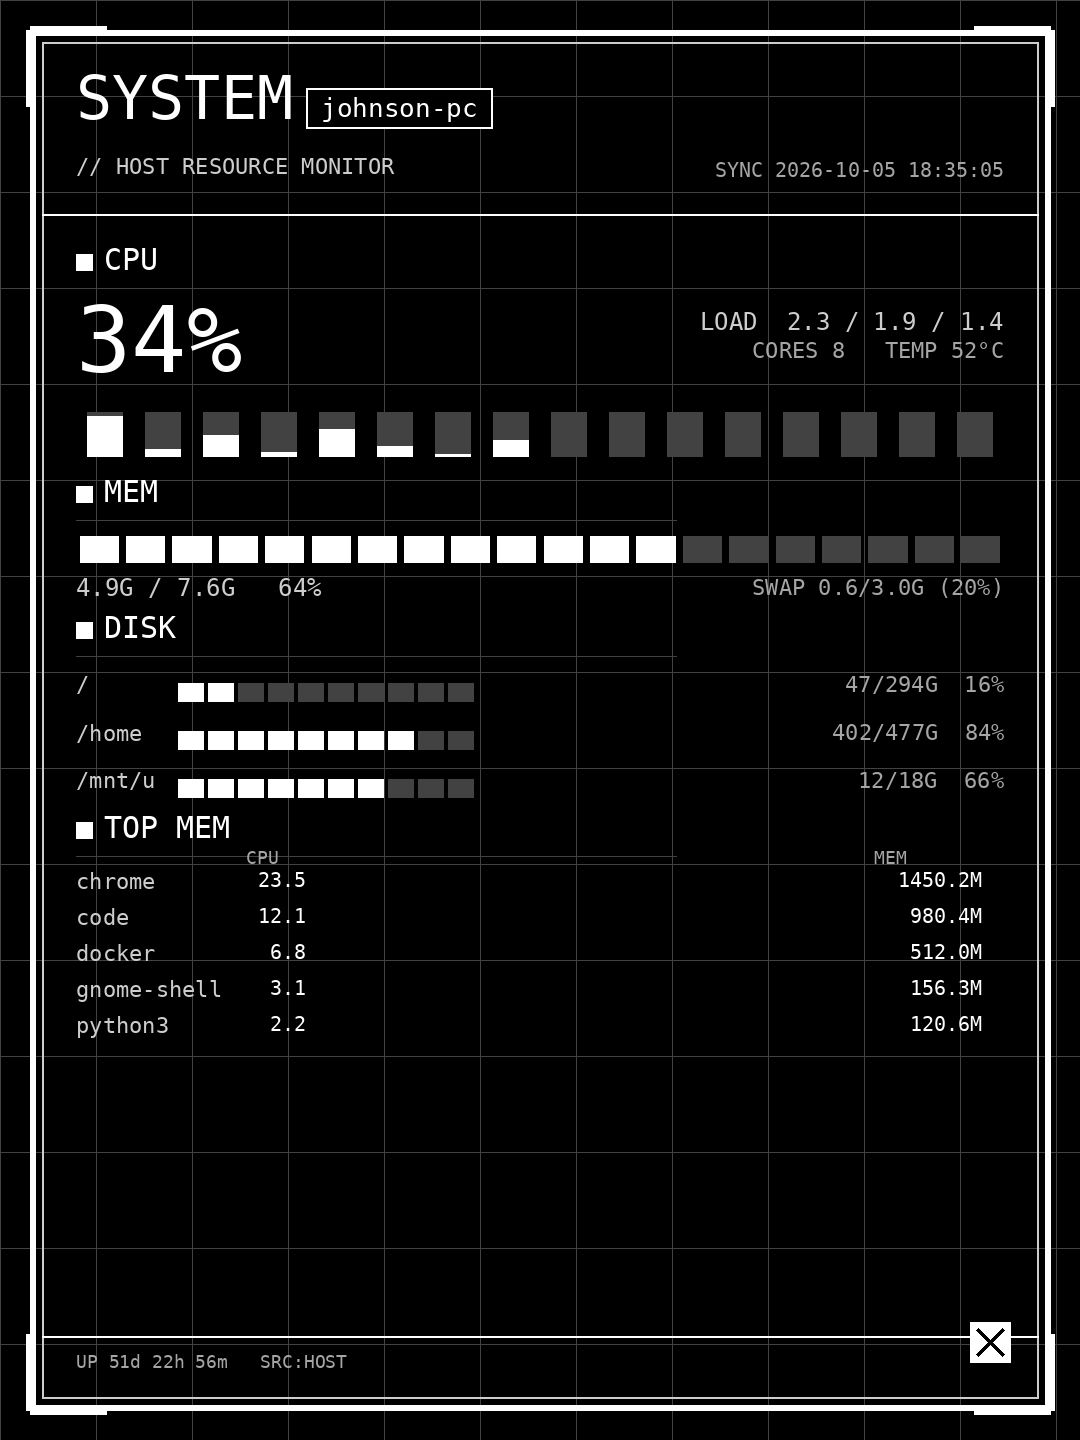
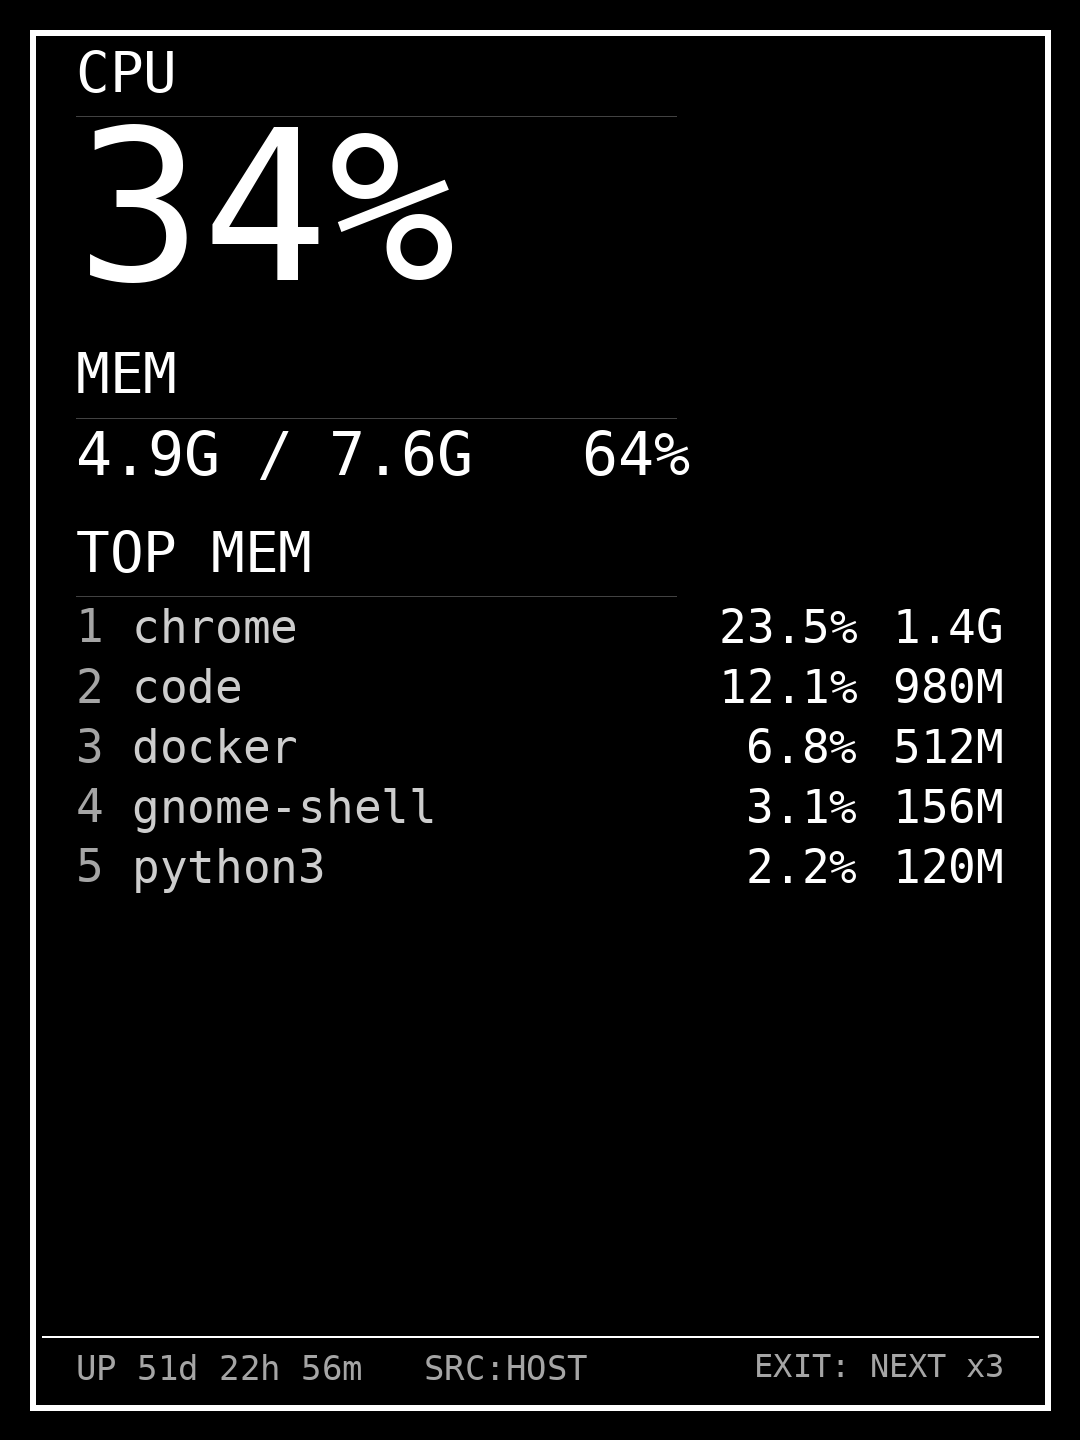
board: TOP MEM 5 -> 10 rows, tighten rhythm to fit

diff --git a/res_cover.py b/res_cover.py
@@ -114,9 +114,9 @@ def _fit(d, s, font, maxw):
 
 def _section_label(d, x, y, label, P, s):
     _text(d, (x, y), label, int(56 * s), P["WHITE"], anchor="lt")
-    d.line([(x, y + int(70 * s)), (x + int(600 * s), y + int(70 * s))],
+    d.line([(x, y + int(66 * s)), (x + int(600 * s), y + int(66 * s))],
            fill=P["DGRAY"] + (255,), width=1)
-    return y + int(82 * s)
+    return y + int(78 * s)
 
 
 # ---- section renderers (design units @1440h, scaled by s) ------------------
@@ -130,7 +130,7 @@ def _sec_cpu(d, x0, xr, y, s, st, P):
     big = "%d%%" % int(round(cpu.get("pct", 0)))
     _text(d, (x0, y - int(4 * s)), big, int(210 * s), P["WHITE"],
           anchor="lt")
-    return y + int(230 * s)
+    return y + int(224 * s)
 
 
 def _sec_mem(d, x0, xr, y, s, st, P):
@@ -143,7 +143,7 @@ def _sec_mem(d, x0, xr, y, s, st, P):
           "%.1fG / %.1fG   %d%%" % (mem.get("usedGB", 0),
                                     mem.get("totalGB", 0), int(pct)),
           int(60 * s), P["WHITE"], anchor="lt")
-    return y + int(104 * s)
+    return y + int(100 * s)
 
 
 def _sec_procs(d, x0, xr, y, s, st, P):
@@ -153,7 +153,7 @@ def _sec_procs(d, x0, xr, y, s, st, P):
         _text(d, (x0, y), "- none -", int(36 * s), P["MGRAY"])
         return y + int(56 * s)
     tf = _font(int(46 * s))
-    for i, p in enumerate(procs[:5], 1):
+    for i, p in enumerate(procs[:10], 1):
         # right columns sized by content so MEM/CPU can never overlap the
         # name column (measured, font-agnostic)
         memmb = p.get("memMB", 0)
@@ -170,7 +170,7 @@ def _sec_procs(d, x0, xr, y, s, st, P):
               anchor="lt")
         _text(d, (cpua, y), cpus, int(46 * s), P["WHITE"], anchor="rt")
         _text(d, (xr, y), mems, int(46 * s), P["WHITE"], anchor="rt")
-        y += int(66 * s)
+        y += int(60 * s)
     return y
 
 
@@ -218,7 +218,7 @@ def render_res_cover(status, w=1080, h=1440, mono=True, theme="dark",
     # ---- never the gauges ----------------------------------------------------
     y = _sec_cpu(d, x0, xr, y, s, status, P)
     y = _sec_mem(d, x0, xr, y, s, status, P)
-    if y + int(430 * s) < bottom_limit:
+    if y + int(690 * s) < bottom_limit:
         y = _sec_procs(d, x0, xr, y, s, status, P)
 
     # ---- footer ----------------------------------------------------------------

diff --git a/res_collect.py b/res_collect.py
@@ -45,7 +45,7 @@ except Exception:
 
 HIST_LEN = 60          # sparkline history kept in memory (one sample per tick)
 DISK_MAX = 4           # disk rows shown (renderer cap)
-PROC_MAX = 5           # top-mem processes shown
+PROC_MAX = 10          # top-mem processes shown
 DISK_FS = ("ext4", "ext3", "xfs", "btrfs", "zfs", "apfs", "ntfs", "ntfs3",
            "vfat", "exfat", "f2fs", "jfs", "reiserfs", "cifs", "fuse.")
 NET_SKIP = ("lo", "docker", "veth", "br-", "cni", "tap", "tun", "virbr", "ltx")

diff --git a/README.md b/README.md
@@ -16,7 +16,7 @@
 
 - **常驻看板**：Kindle 上常驻显示，每 **3 分钟**自动刷新。
 - **指标**：CPU 总占用大字号直出（不显示 load/温度）；内存/Swap 数值行；
-  TOP 5 内存进程
+  TOP 10 内存进程
   （CPU% + 内存 MB，按内存降序；Node 等运行时写进 comm 的线程名
   如 `MainThread` 会自动还原成脚本名）；运行时长。
 - **纯文字大字号版式**：无标题横幅、无背景网格、无进度条、无图标，
